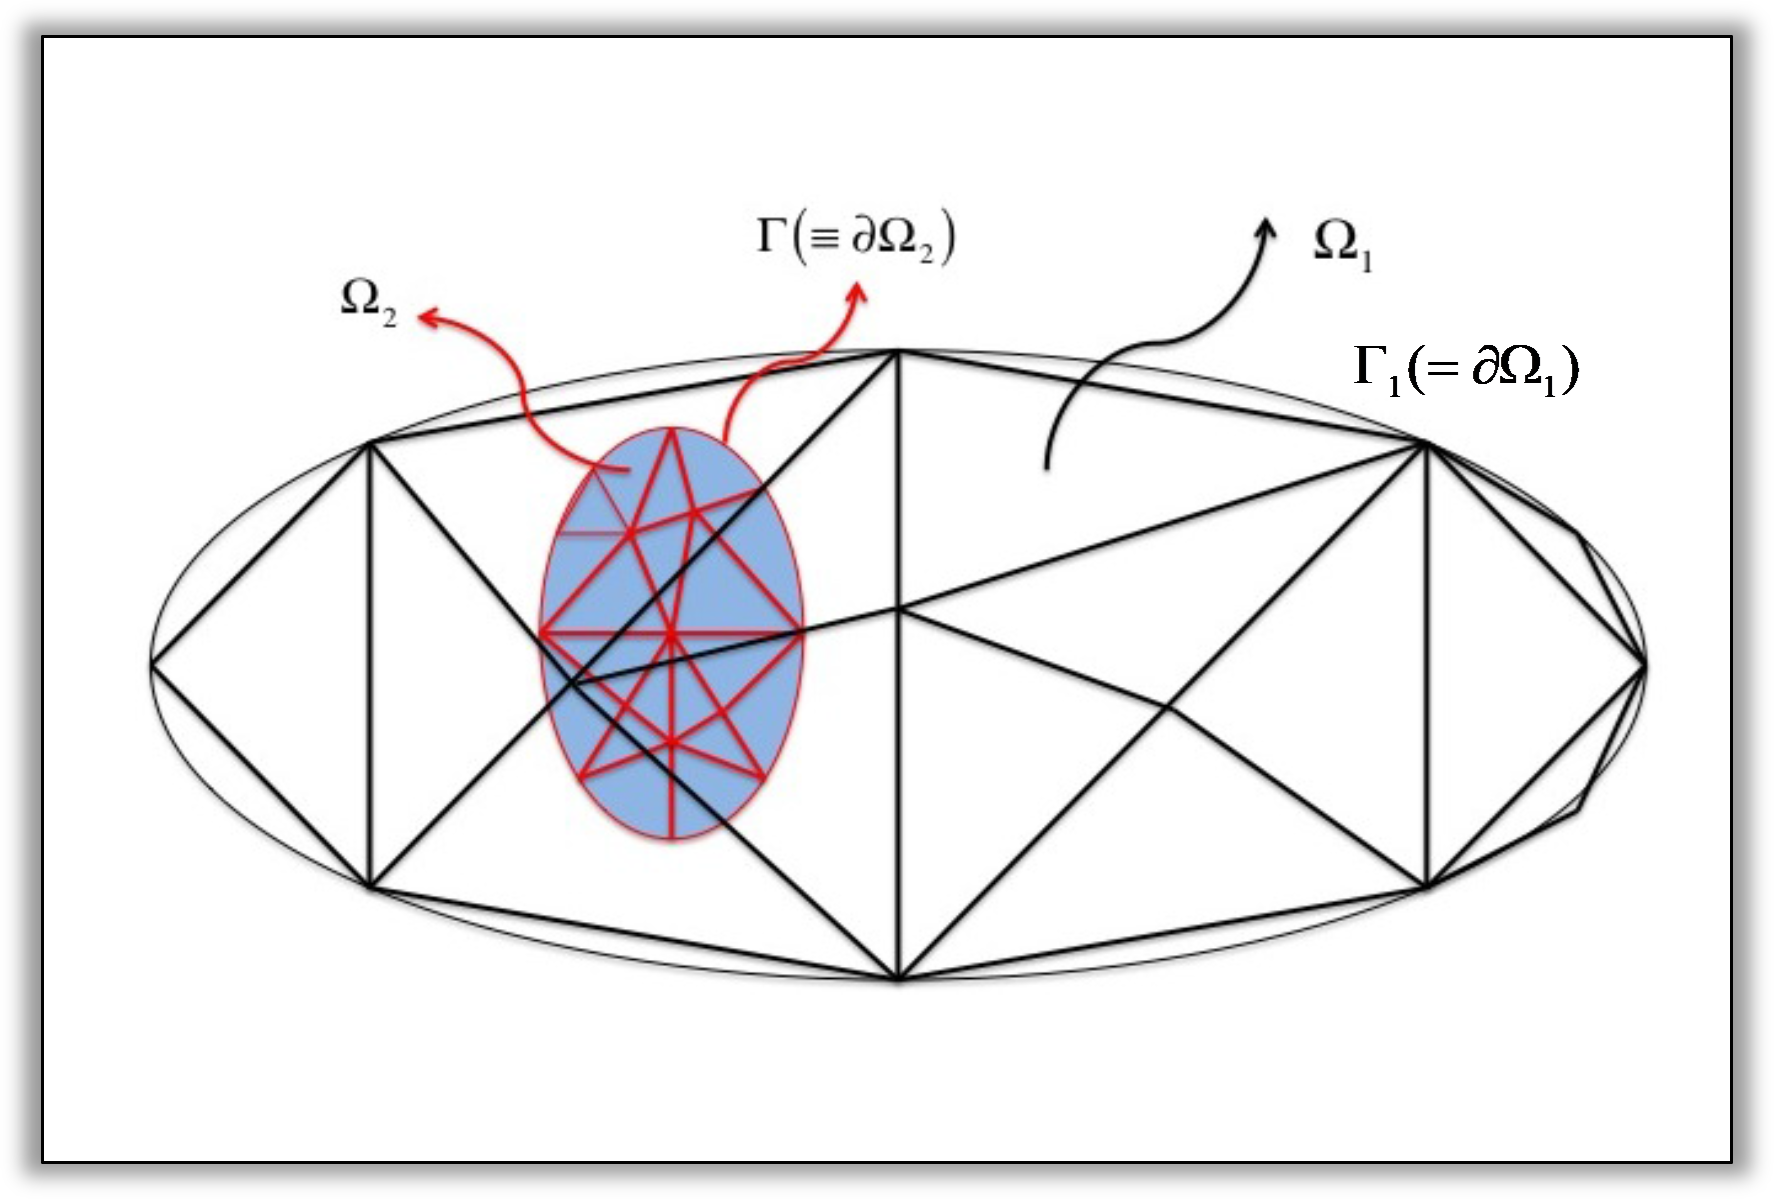
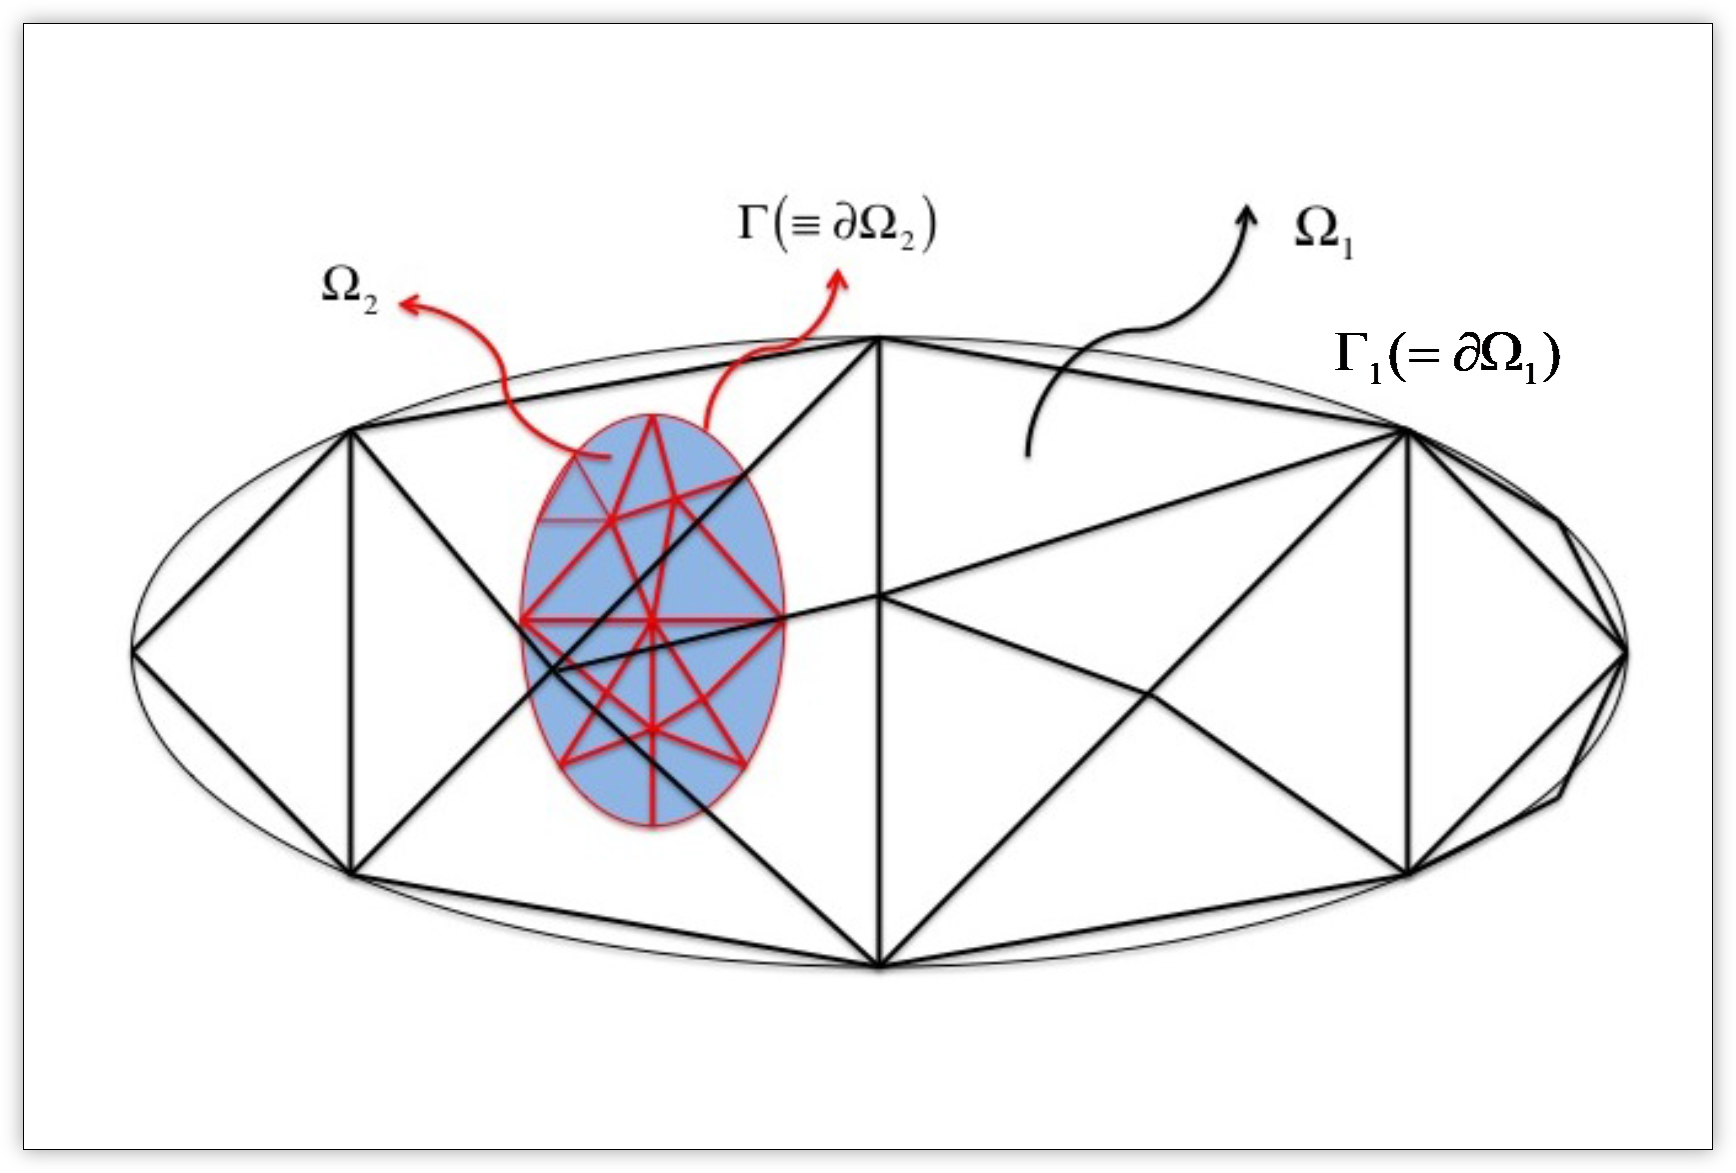
up

diff --git a/_projects/project_1_ddm.md b/_projects/project_1_ddm.md
@@ -12,7 +12,7 @@ related_publications: true
 
 **Domain decomposition methods (DDMs)** partition a large problem into smaller subdomains that can be modeled and solved individually and coupled through transmission conditions. They provide a natural framework for large-scale numerical simulations, parallel computing, heterogeneous discretizations, and modular numerical modeling. 
 
-As EM systems become increasingly complicated, modeling and meshing are taking an increasingly large portion of the overall simulation effort. **The question is not only how to solve a large problem efficiently, but also how to model it efficiently, and how to reuse what has already been computed**.
+As EM systems become increasingly complicated, modeling and meshing are taking an increasingly large portion of the overall simulation effort. **The challenge is not only how to solve a large problem efficiently, but also how to model it efficiently, and how to reuse what has already been computed**.
 Our research focuses on **nonconformal and embedded domain decomposition formulations**. In addition to reducing computational complexity, we aim to improve the flexibility of the entire simulation workflow by allowing different parts of a system to be modeled, meshed, modified, and reused effectively.
 
 
